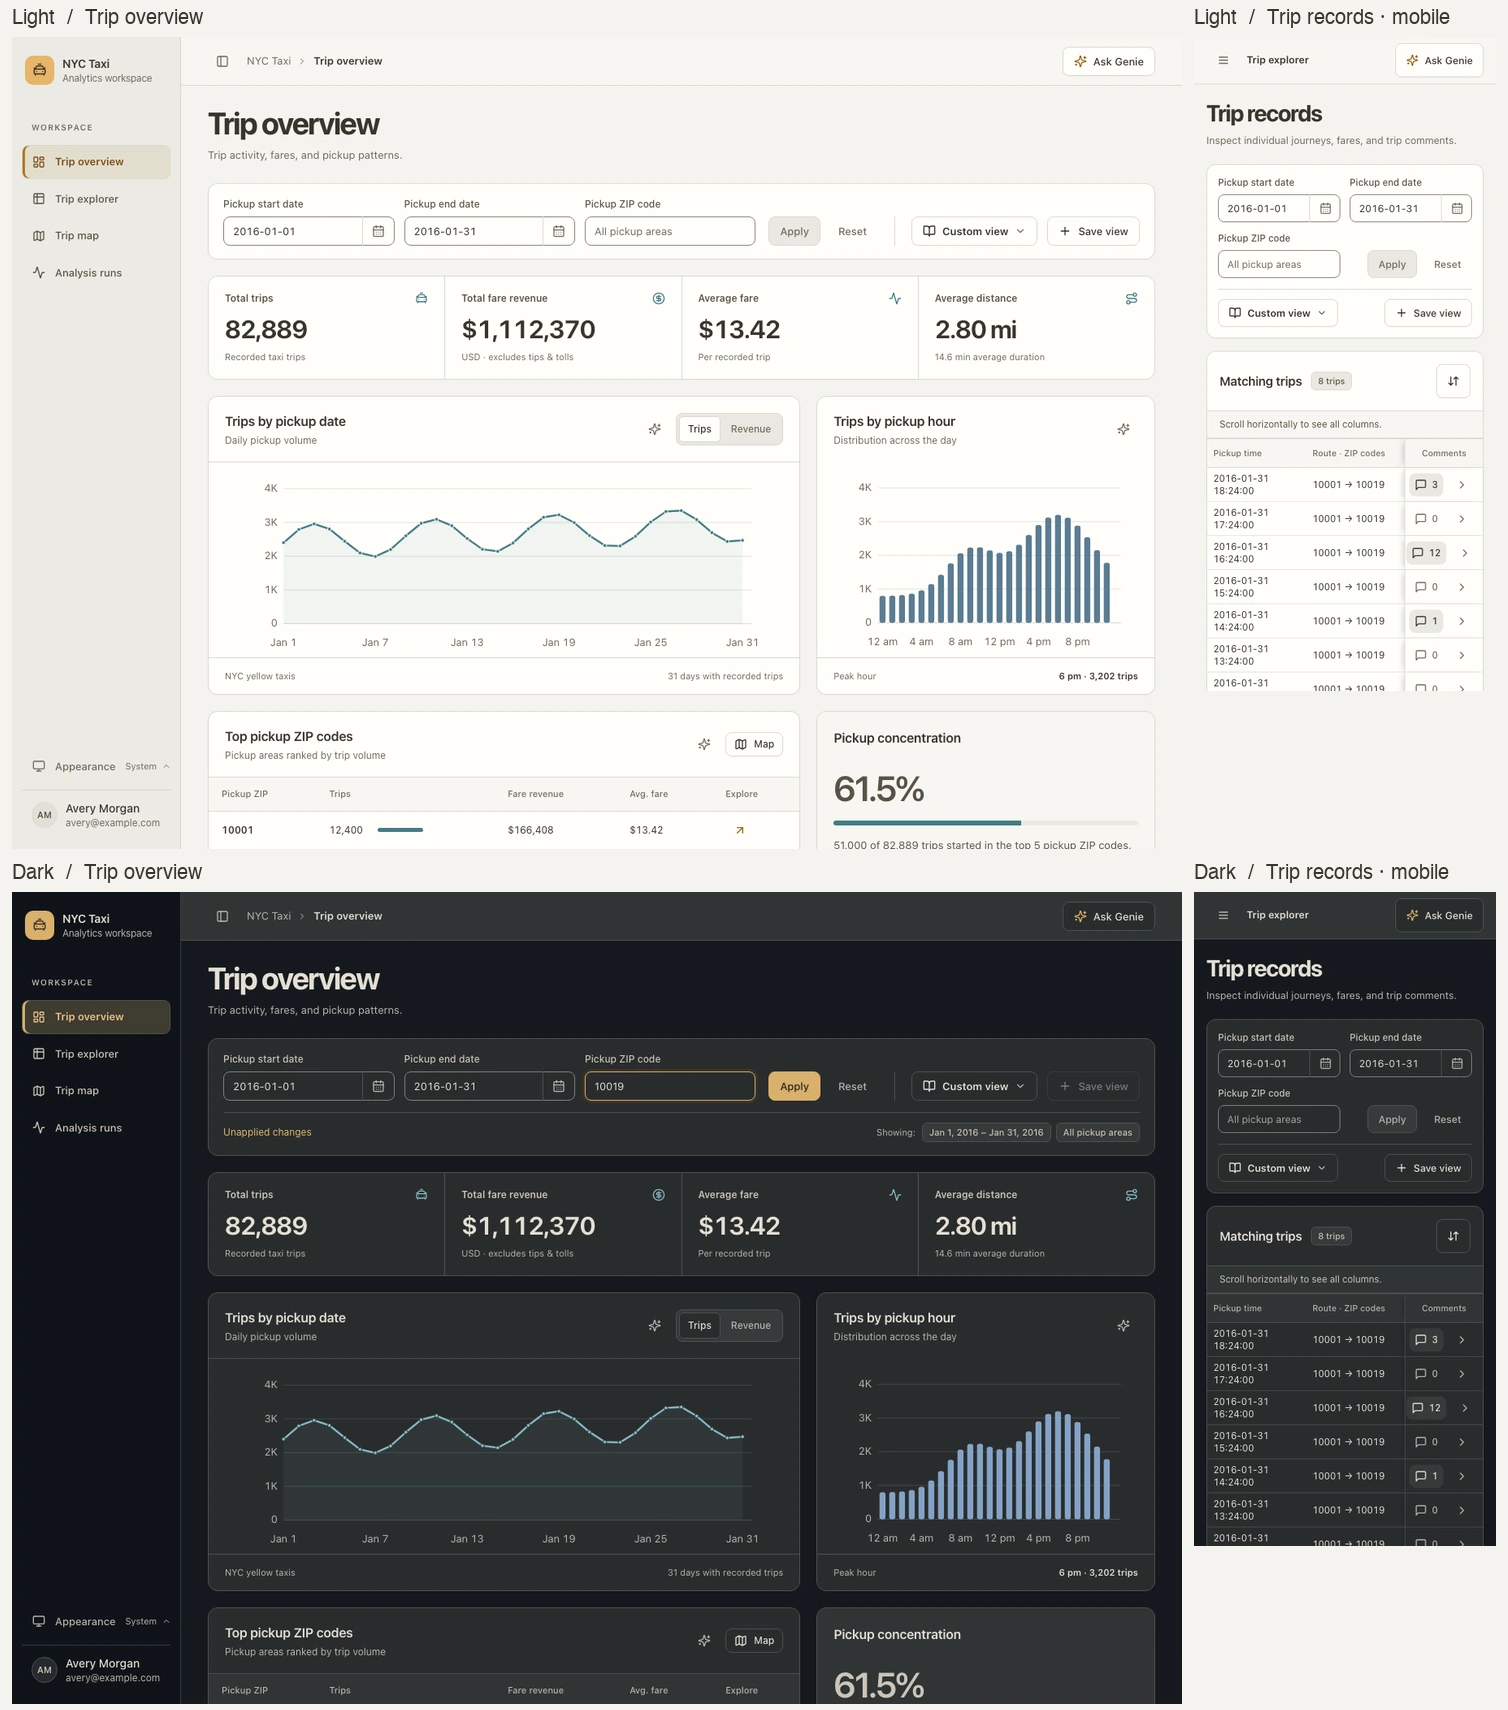
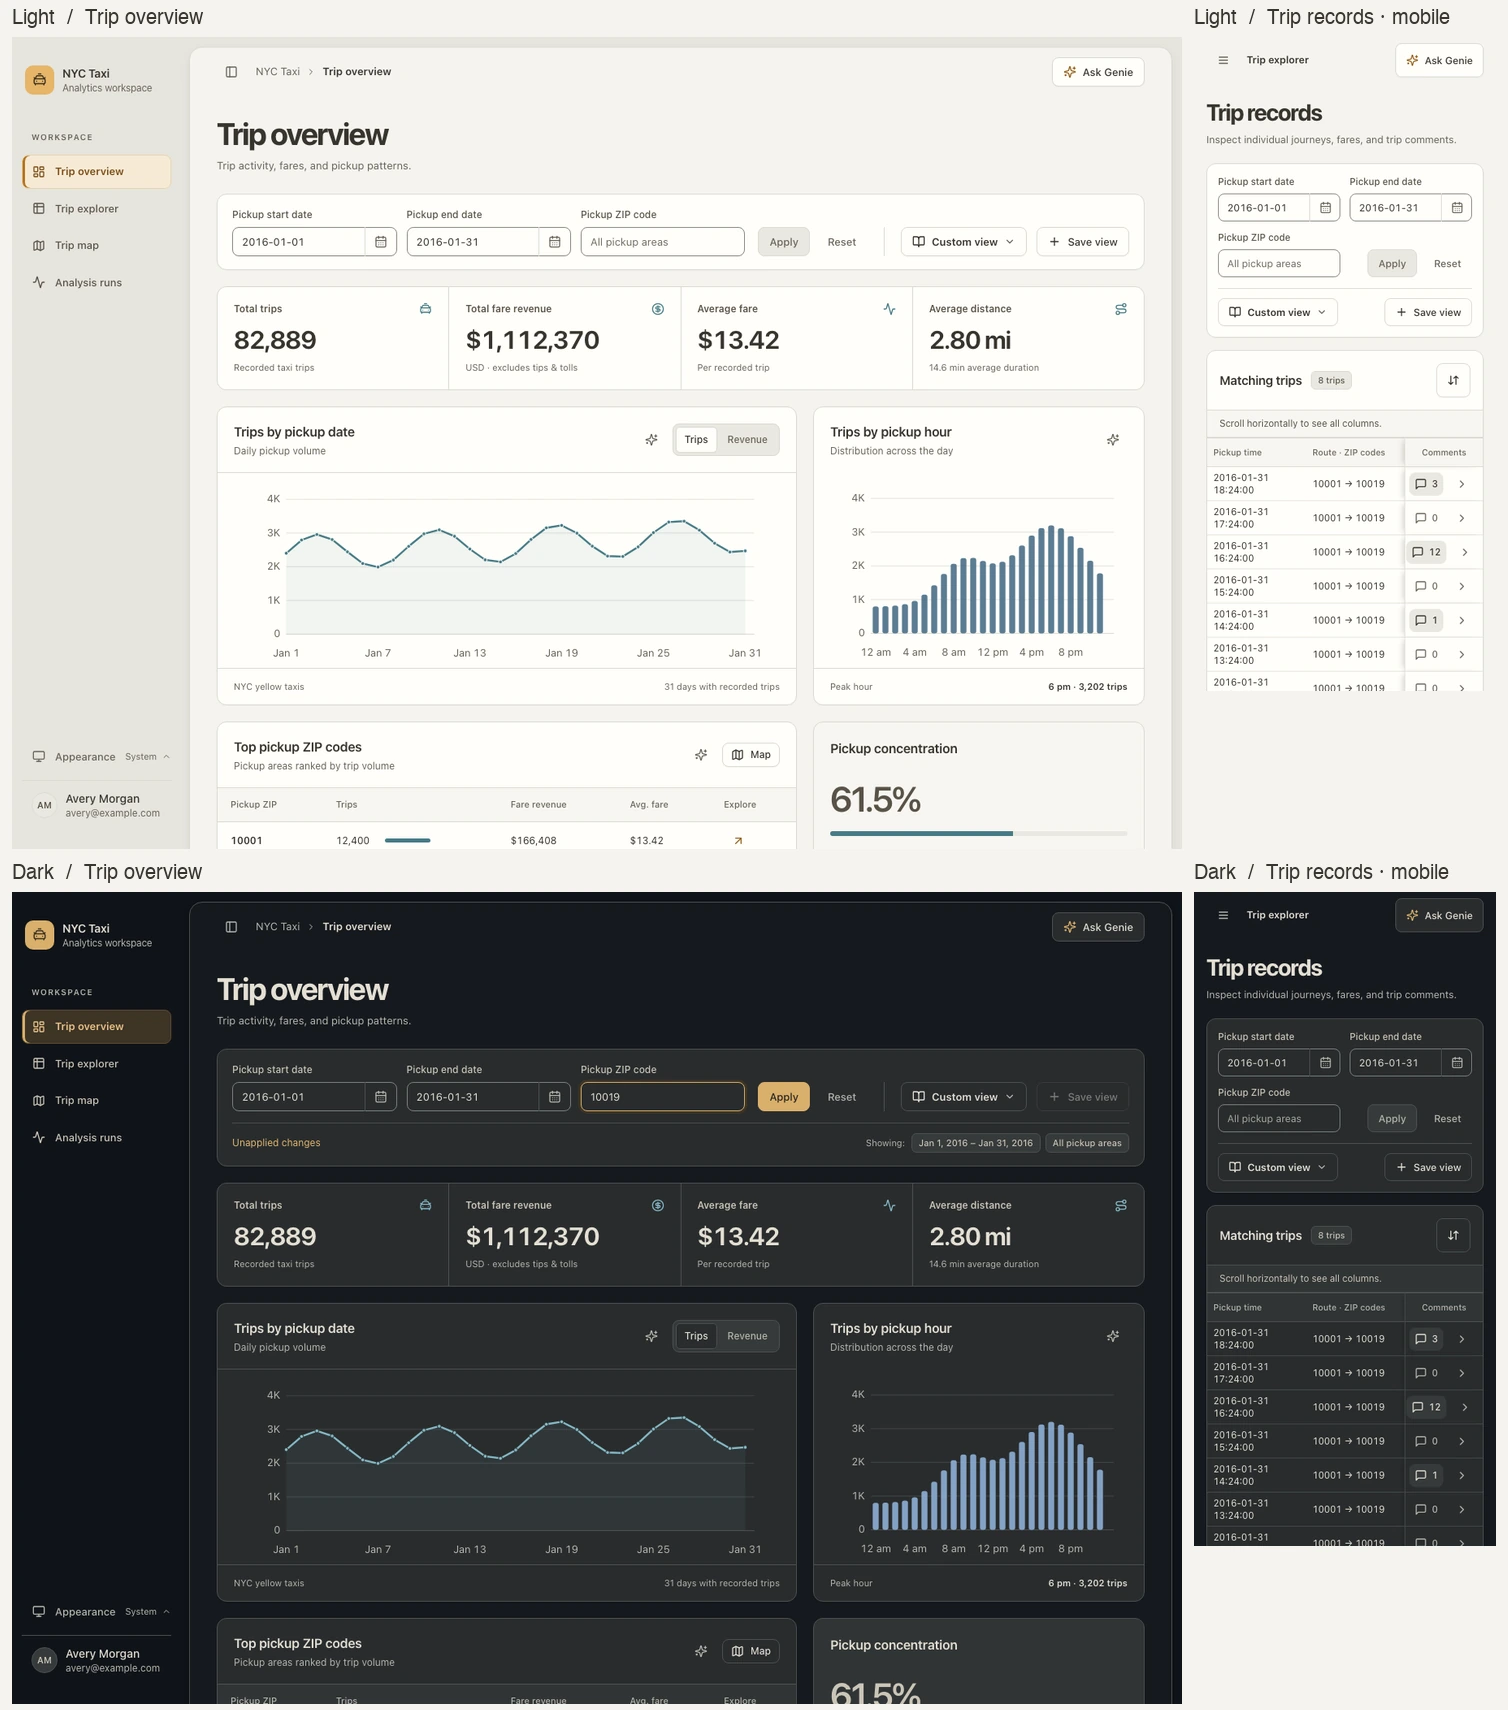
fix(workbench): increase muted text contrast on light controls

diff --git a/packages/workbench-ui/css/theme.css b/packages/workbench-ui/css/theme.css
@@ -13,7 +13,7 @@
   --canvas: #f4f3ef;
   --surface: #fffefa;
   --foreground: #38342d;
-  --muted: #70695e;
+  --muted: #696358;
   --border: #dbd9d1;
   --subtle: #eae8e1;
   --radius: 0.75rem;
